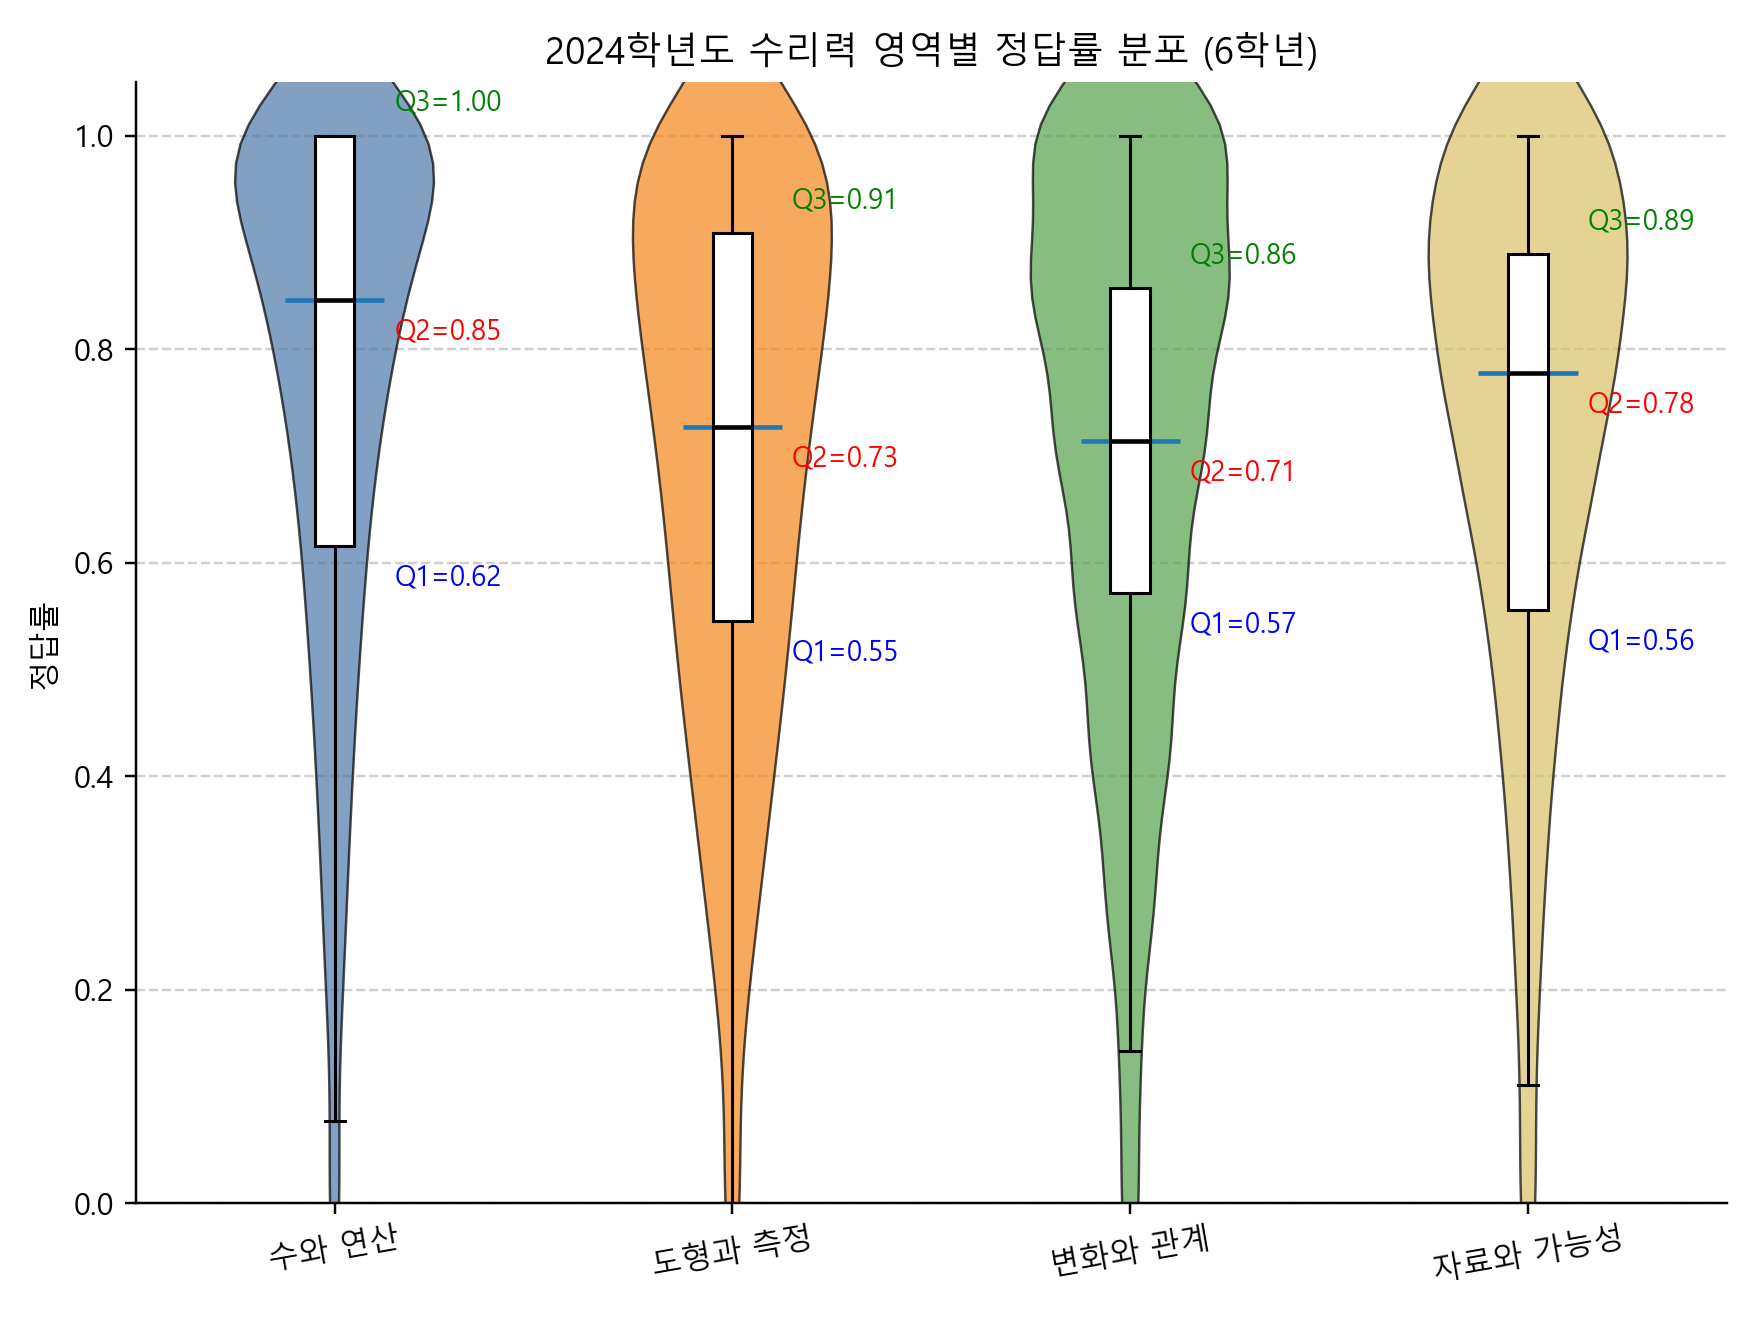
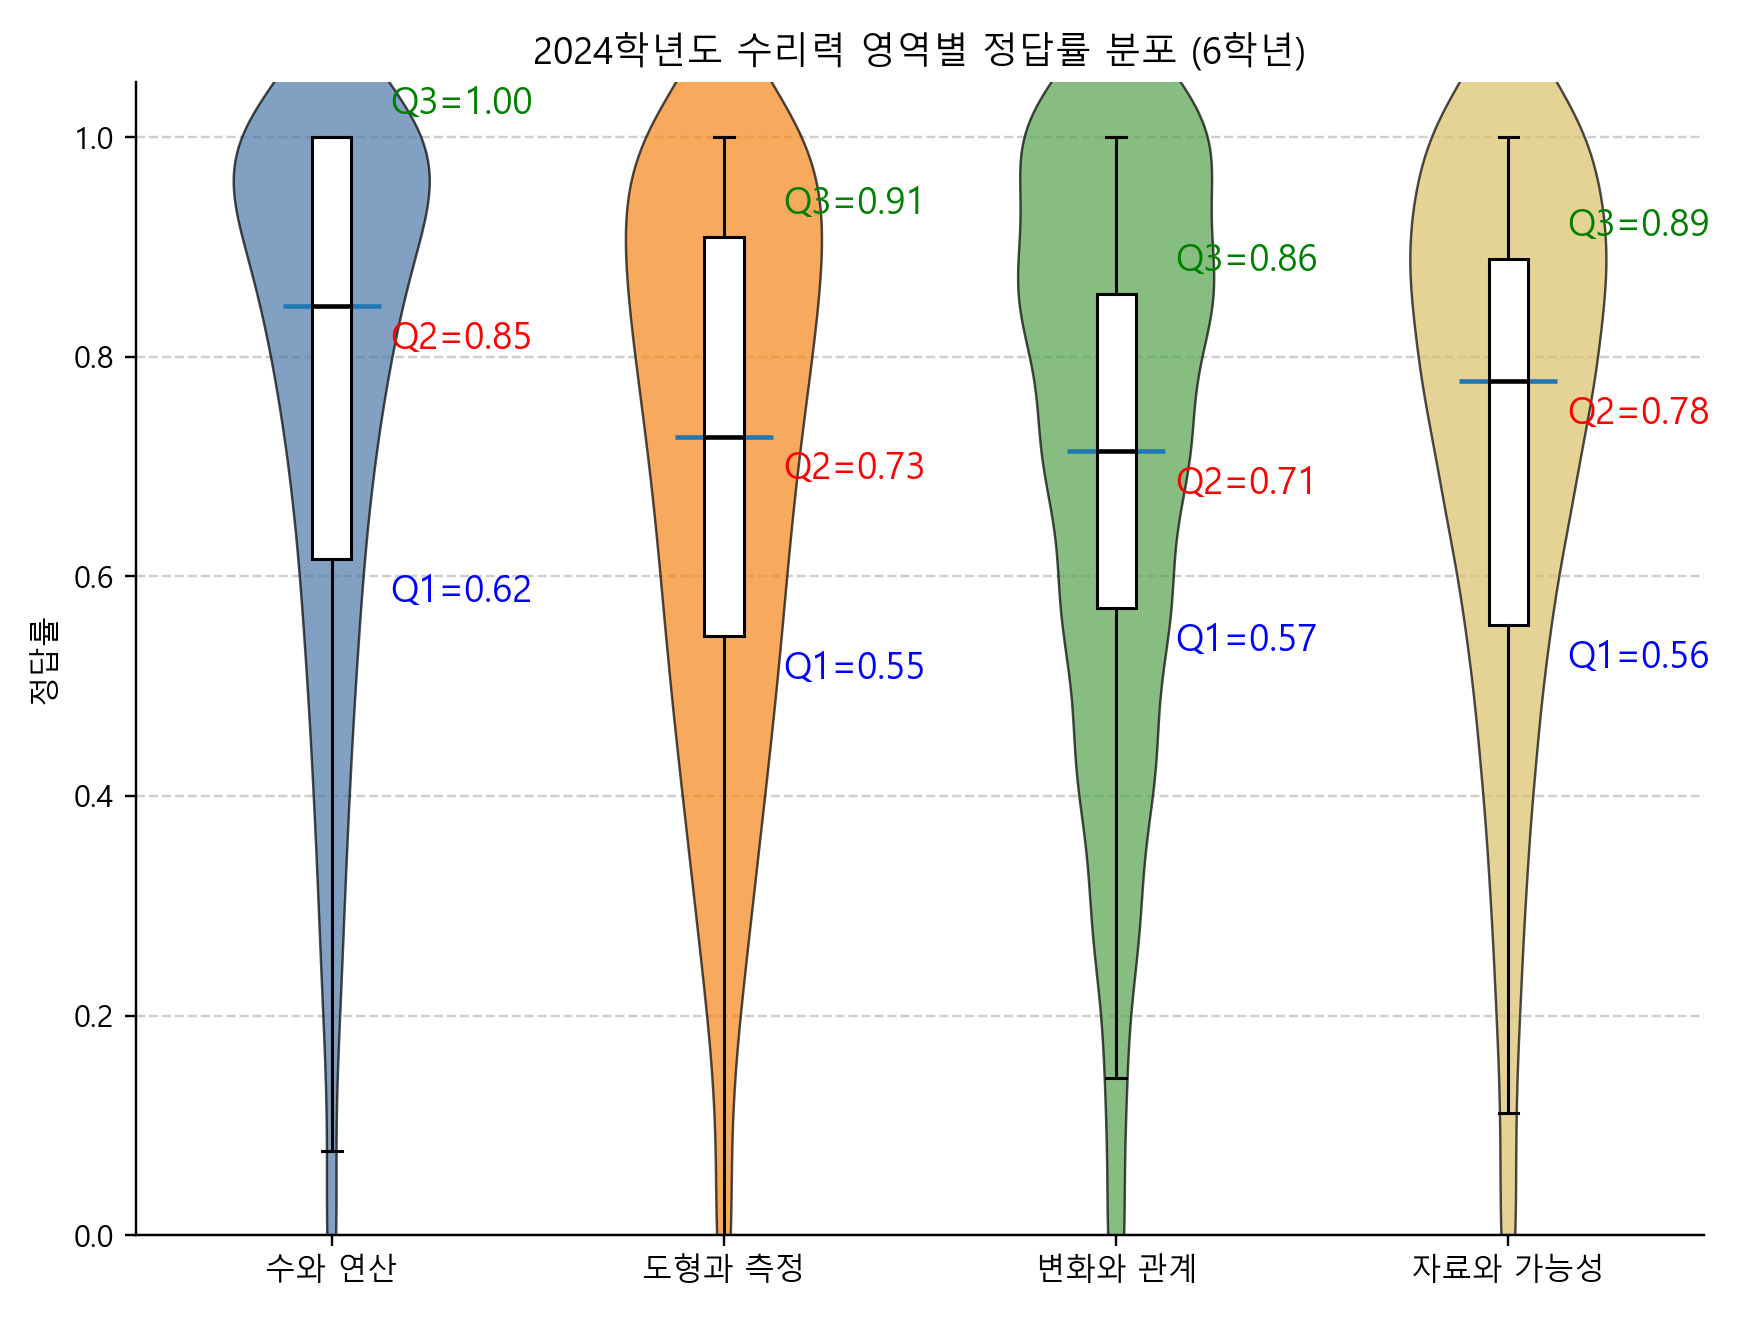
251002

diff --git a/analyze.py b/analyze.py
@@ -106,7 +106,7 @@ def plot_single_year_grade(df_scores, year, grade, outpath):
     fig, ax = plt.subplots(figsize=(8,6)) # Figure와 Axes 객체를 함께 생성
     
     # 바이올린 플롯 그리기
-    v = ax.violinplot(data, showmeans=False, showmedians=True, showextrema=False, points=500)
+    v = ax.violinplot(data, showmeans=False, showmedians=True, showextrema=False, points=1500)
 
     # 개별 바이올린 색상, 테두리 지정 
     for body, lab in zip(v['bodies'], labels):
@@ -139,16 +139,16 @@ def plot_single_year_grade(df_scores, year, grade, outpath):
 
         # Q1 (25th percentile) 표시
         ax.text(x + offset_x_text, q1 - offset_y_q1, f"Q1={q1:.2f}",
-                color='blue', va='center', ha='left', fontsize=9)
+                color='blue', va='center', ha='left', fontsize=12)
         # Q2 (Median, 50th percentile) 표시
         ax.text(x + offset_x_text, median - offset_y_q2, f"Q2={median:.2f}",
-                color='red', va='center', ha='left', fontsize=9)
+                color='red', va='center', ha='left', fontsize=12)
         # Q3 (75th percentile) 표시
         ax.text(x + offset_x_text, q3 + offset_y_q3, f"Q3={q3:.2f}",
-                color='green', va='center', ha='left', fontsize=9)
+                color='green', va='center', ha='left', fontsize=12)
 
     # Axes 꾸미기
-    ax.set_xticks(np.arange(1, len(labels)+1), labels, rotation=10)
+    ax.set_xticks(np.arange(1, len(labels)+1), labels)
     ax.set_ylabel("정답률")
     ax.set_ylim(0, 1.05)
     
